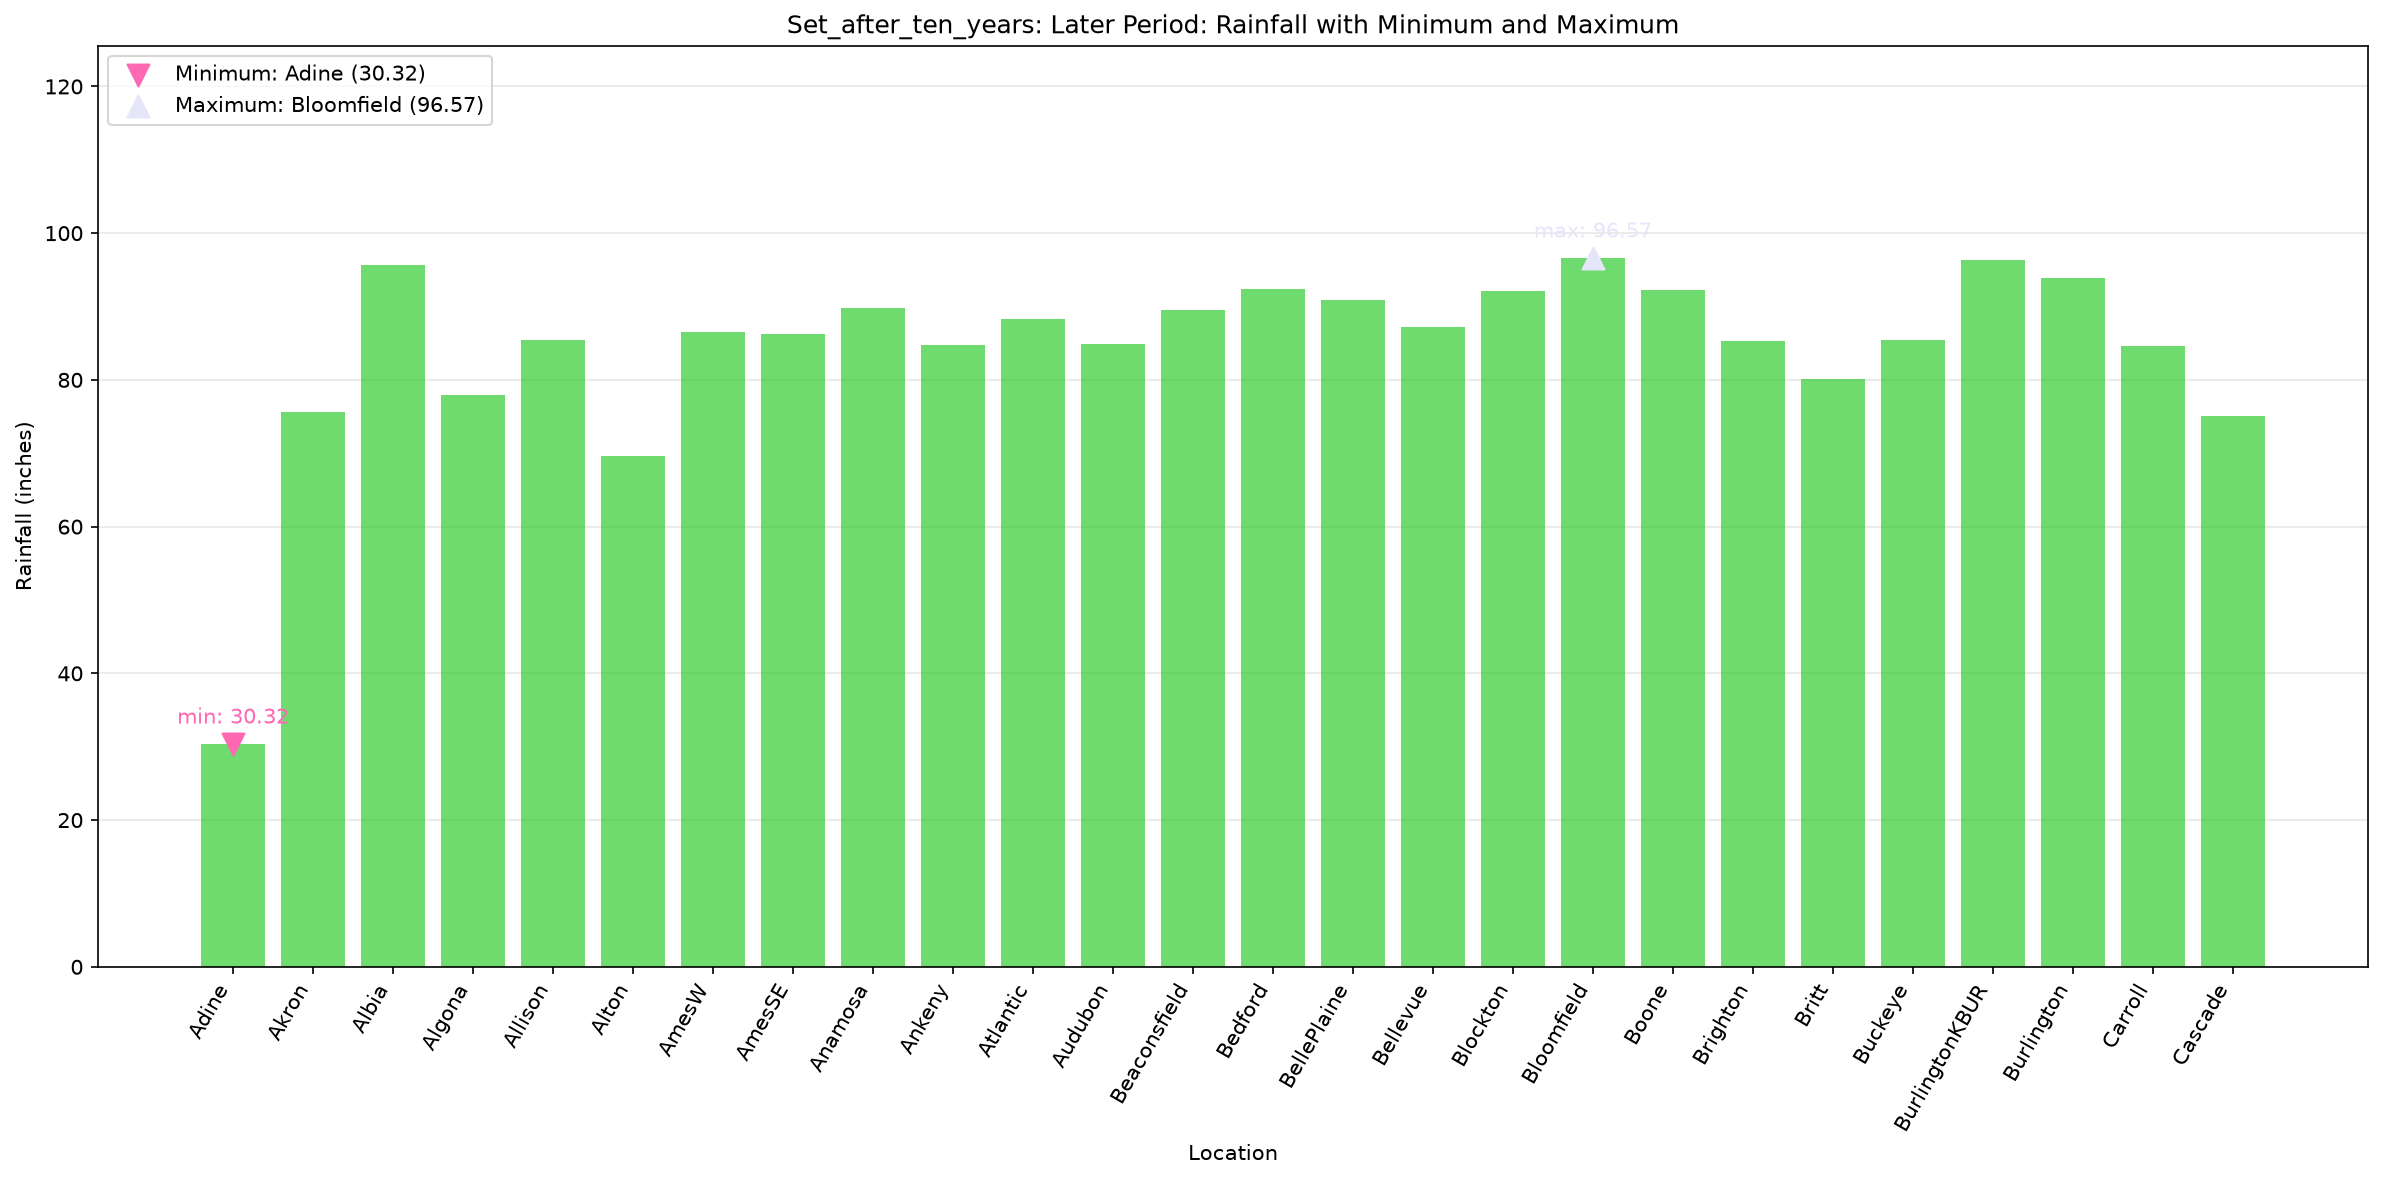
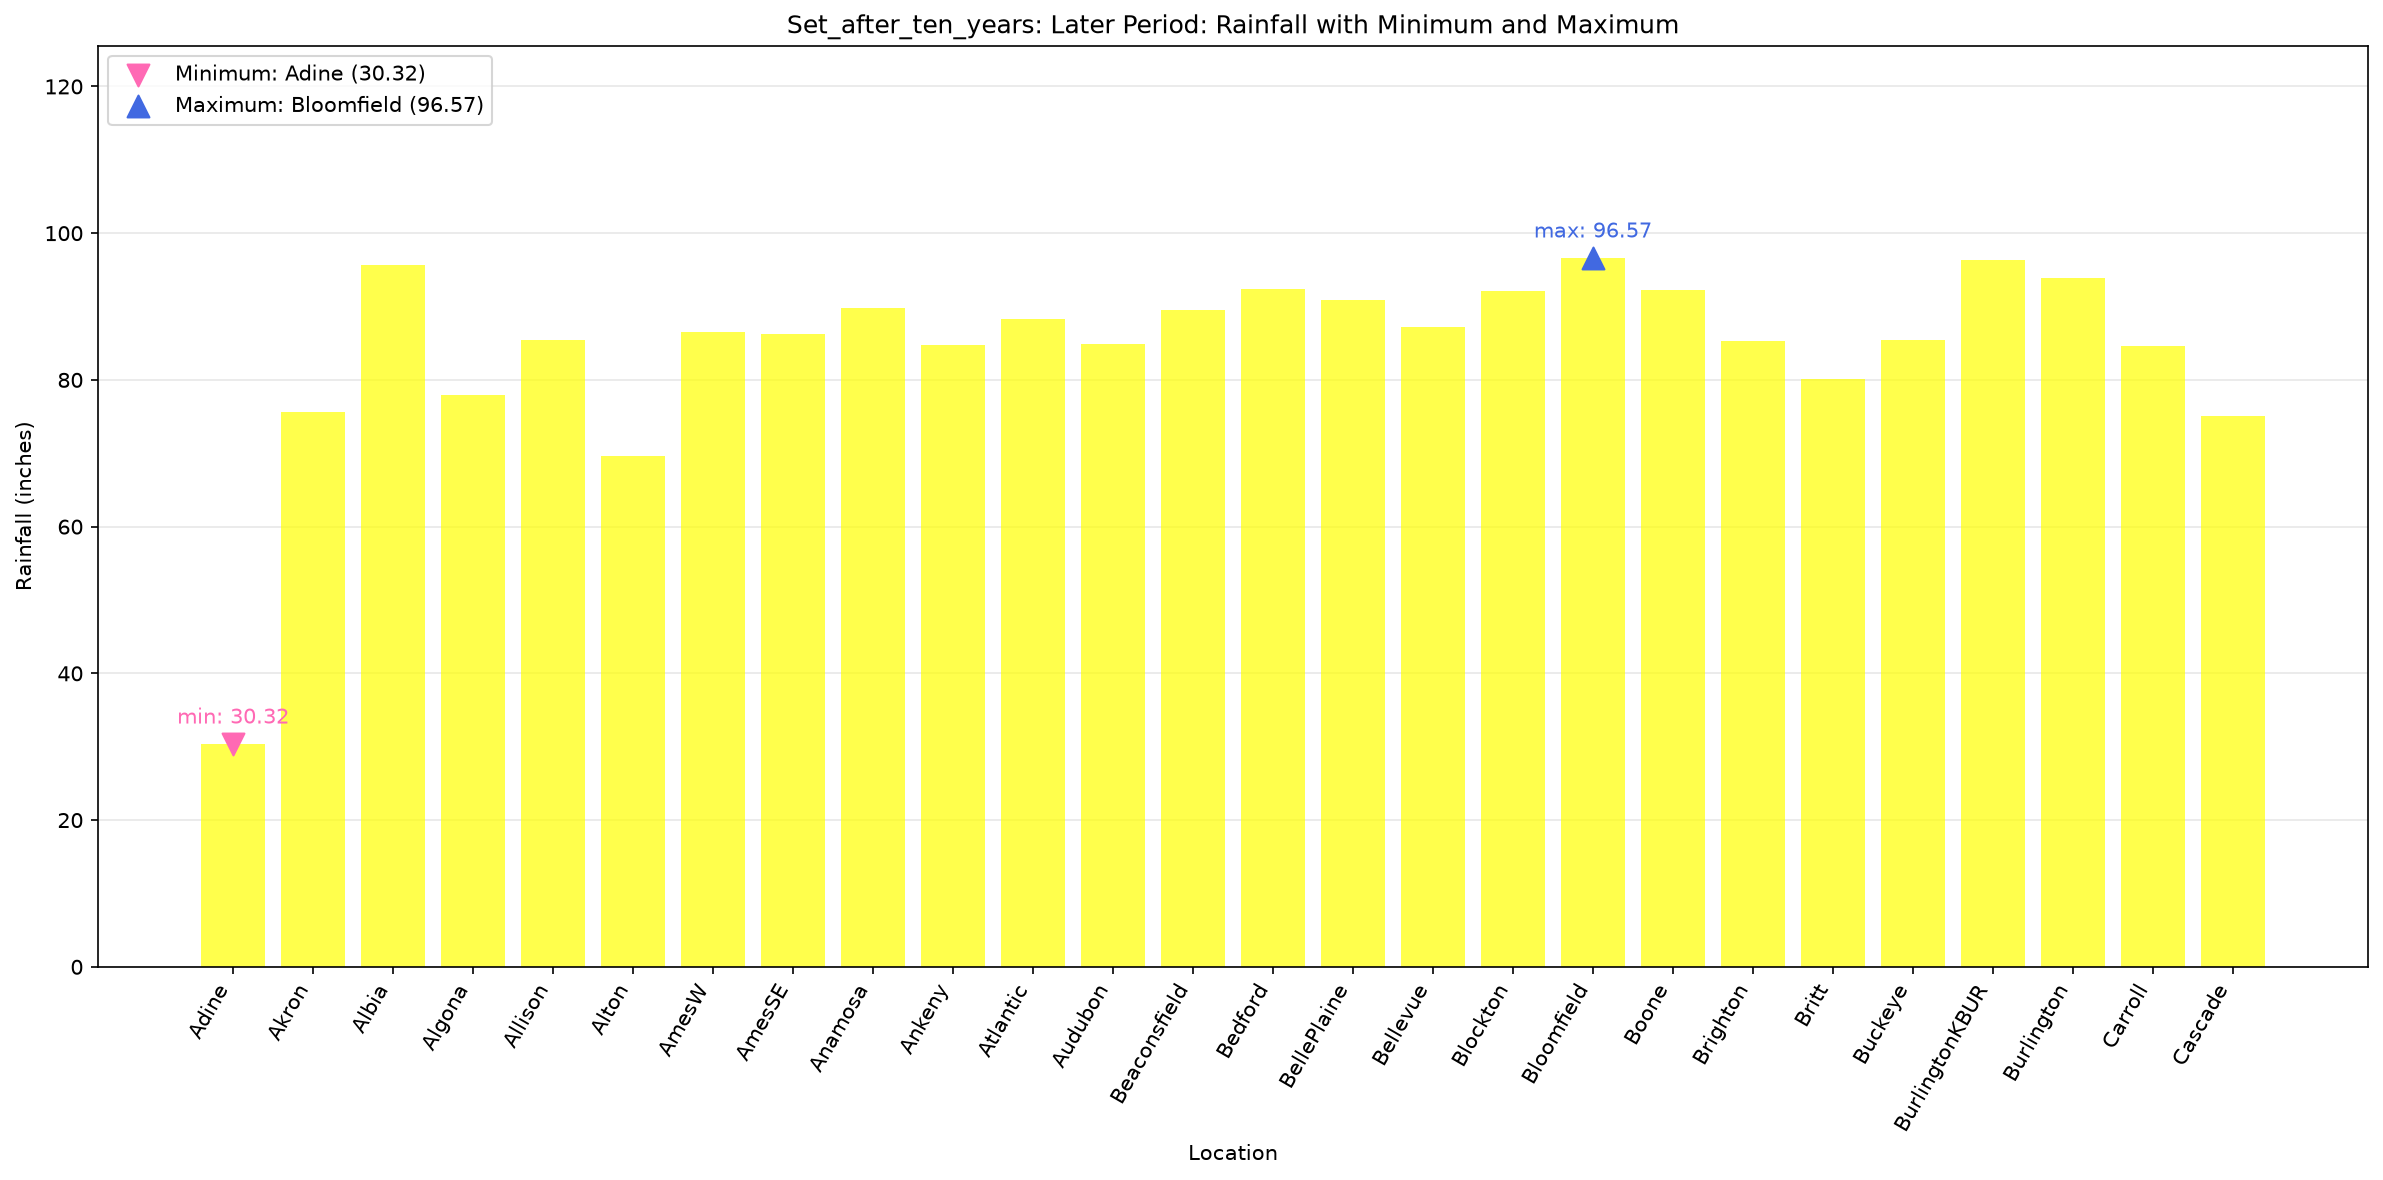
ready_and_tested

diff --git a/rainfall_set/rainfall_charts.py b/rainfall_set/rainfall_charts.py
@@ -24,46 +24,46 @@ def read_rainfall(file_path):
     rainfall = {}
 
     with file_path.open("r", encoding="utf-8-sig") as rainfall_file:
-        for line_number, line in enumerate(rainfall_file, start=1):
-            line = line.strip()
+        for line_num, line_text in enumerate(rainfall_file, start=1):
+            line_text = line_text.strip()
 
-            # Ignore empty lines.
-            if not line:
+            # Ignore empty lines_text.
+            if not line_text:
                 continue
 
             # Separate the location name from the rainfall value.
-            parts = line.rsplit(maxsplit=1)
+            separator = line_text.rsplit(maxsplit=1)
 
-            if len(parts) != 2:
+            if len(separator) != 2:
                 raise ValueError(
-                    f"{file_path.name}, line {line_number}: "
+                    f"{file_path.name}, line_text {line_num}: "
                     "expected a location name and a rainfall value."
                 )
 
-            # Unpack the two parts into variables.
-            location, rainfall_text = parts
+            # Unpack the two separator parts into variables.
+            location, location_text = separator
 
             # Assume these two spellings refer to the same location.
             if location == "Adina":
                 location = "Adine"
 
             try:
-                amount = float(rainfall_text)
+                amount = float(location_text)
             except ValueError as error:
                 raise ValueError(
-                    f"{file_path.name}, line {line_number}: "
-                    f"invalid rainfall value '{rainfall_text}'."
+                    f"{file_path.name}, line_text {line_num}: "
+                    f"invalid rainfall value '{location_text}'."
                 ) from error
 
             if amount < 0:
                 raise ValueError(
-                    f"{file_path.name}, line {line_number}: "
+                    f"{file_path.name}, line_text {line_num}: "
                     "rainfall cannot be negative."
                 )
 
             if location in rainfall:
                 raise ValueError(
-                    f"{file_path.name}, line {line_number}: "
+                    f"{file_path.name}, line_text {line_num}: "
                     f"duplicate location '{location}'."
                 )
 
@@ -129,7 +129,7 @@ def draw_comparison(ax, locations, setbefore, setafter):
         setafter_positions,
         setafter_values,
         width=width,
-        color="limegreen",
+        color="red",
         label="Set_after_ten_years: later period",
     )
 
@@ -157,7 +157,7 @@ def draw_single_set(ax, locations, rainfall, set_name, color, upper_limit):
     ax.scatter(
         min_position,
         rainfall[min_location],
-        color="hotpink",
+        color="crimson",
         marker="v",
         s=110,
         zorder=3,
@@ -167,7 +167,7 @@ def draw_single_set(ax, locations, rainfall, set_name, color, upper_limit):
     ax.scatter(
         max_position,
         rainfall[max_location],
-        color="lavender",
+        color="royalblue",
         marker="^",
         s=110,
         zorder=3,
@@ -176,8 +176,8 @@ def draw_single_set(ax, locations, rainfall, set_name, color, upper_limit):
 
     # Add text near each highlighted point.
     for location, position, description, text_color in [
-        (min_location, min_position, "min", "hotpink"),
-        (max_location, max_position, "max", "lavender"),
+        (min_location, min_position, "min", "crimson"),
+        (max_location, max_position, "max", "royalblue"),
     ]:
         ax.annotate(
             f"{description}: {rainfall[location]:.2f}",
@@ -207,11 +207,13 @@ def draw_extremes(ax, setbefore, setafter):
     min_location2, max_location2 = find_extremes(setafter)
 
     labels = [
-        f"min-{min_location1}-Set_before_ten_years",
-        f"max-{max_location1}-Set_before_ten_years",
-        f"min-{min_location2}-Set_after_ten_years",
-        f"max-{max_location2}-Set_after_ten_years",
-    ]
+       
+    f"min-{min_location1}-Set1",
+    f"max-{max_location1}-Set1",
+    f"min-{min_location2}-Set2",
+    f"max-{max_location2}-Set2",
+]
+    
 
     values = [
         setbefore[min_location1],
@@ -220,7 +222,7 @@ def draw_extremes(ax, setbefore, setafter):
         setafter[max_location2],
     ]
 
-    colors = ["hotpink", "lavender", "hotpink", "lavender"]
+    colors = ["crimson", "royalblue", "crimson", "royalblue"]
     positions = list(range(len(labels)))
 
     ax.scatter(
@@ -267,7 +269,7 @@ def draw_changes(ax, locations, setbefore, setafter):
     ]
 
     colors = [
-        "hotpink" if change < 0 else "limegreen"
+        "blue" if change < 0 else "darkblue"
         for change in changes
     ]
 
@@ -278,7 +280,7 @@ def draw_changes(ax, locations, setbefore, setafter):
     ax.axvline(0, color="blue", linewidth=1)
 
     ax.set_title(
-        "Rainfall Change by Location: "
+        "Rainfall Changes by Location: "
         "Set_after_ten_years Minus Set_before_ten_years"
     )
     ax.set_xlabel("Change in rainfall (inches): negative = decrease")
@@ -358,7 +360,7 @@ def main():
         locations,
         setafter,
         "Set_after_ten_years: Later Period",
-        "limegreen",
+        "yellow",
         upper_limit,
     )
     save_chart(
@@ -394,18 +396,18 @@ if __name__ == "__main__":
 
 
 # Conclusion:
-# Based on the reported results, rainfall increased at all 26
-# matched locations.
+# Based on results, rainfall increased at all 26
+# matched locations after the earlier period.
 #
-# The earlier dataset has its minimum at Cascade (5.48 inches)
+# The earlier dataset(1) has its minimum at Cascade (5.48 inches)
 # and its maximum at Bloomfield (38.02 inches).
 #
-# The later dataset has its minimum at Adine (30.32 inches)
+# The later dataset(2) has its minimum at Adine (30.32 inches)
 # and its maximum at Bloomfield (96.57 inches).
 #
 # This comparison assumes that "Adina" and "Adine" refer to the
 # same location and that both datasets use inches and represent
 # comparable rainfall measurements.
 #
-# These datasets do not show individual yearly changes or
-# establish the cause of the differences.
+# These datasets are incomplete and do not show individual annual changes or determine
+# the cause of the differences.
